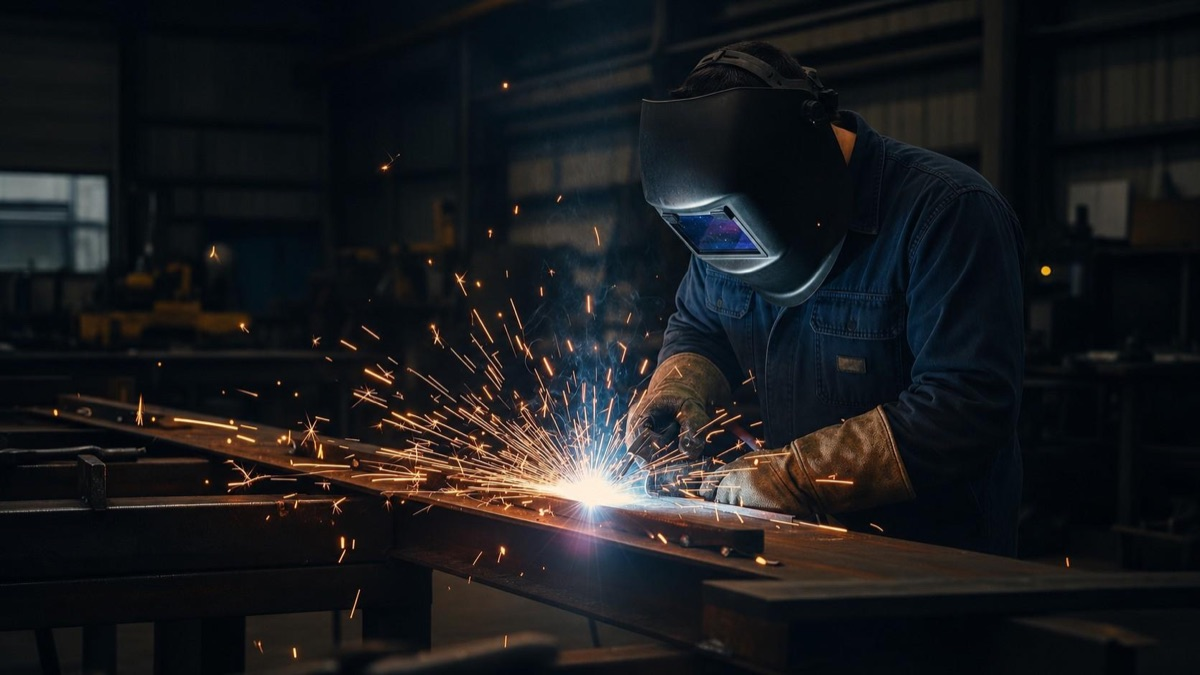
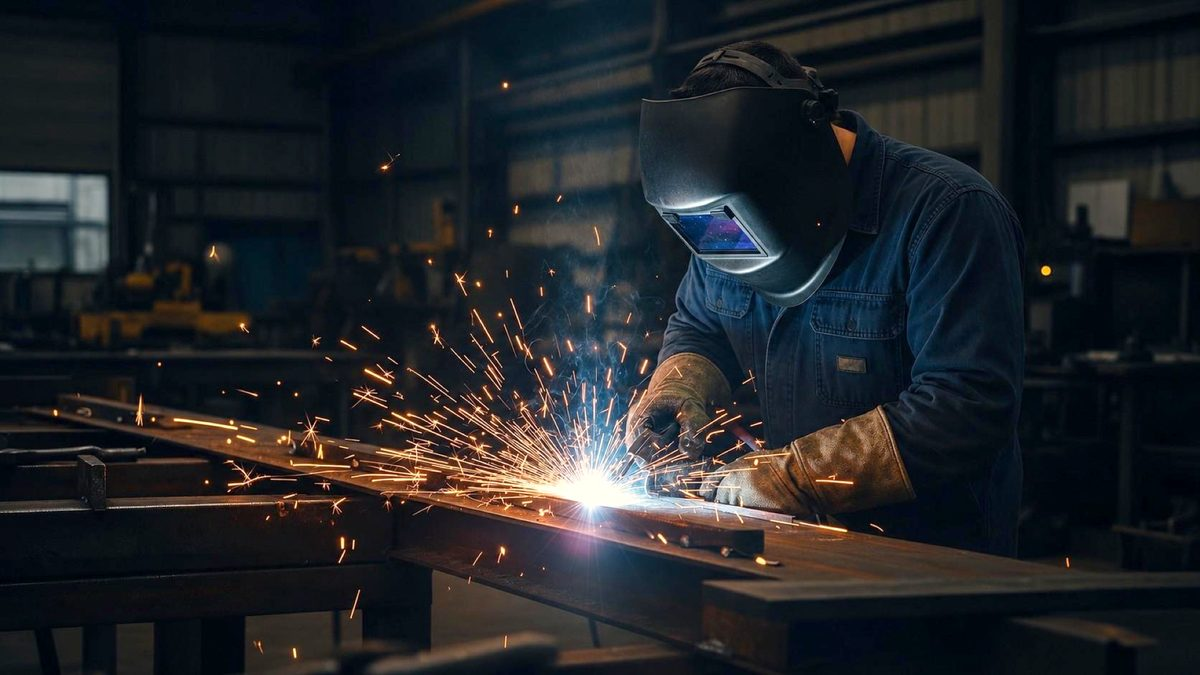
fix(brand): real MITT phone number, regraded hero still, image quality allowance
- site.phone: owner-supplied +91 74163 42020 (tel: link, placeholder:false)
- email remains a labelled placeholder; WhatsApp still null (unconfirmed)
- hero still regraded: gamma 0.82 + contrast 1.10 so the welder reads
- next.config images.qualities allows 86 instead of silent coercion to 75
- LAUNCH-CHECKLIST: B1 resolved; B4 warns against assuming WhatsApp

diff --git a/src/content/site.ts b/src/content/site.ts
@@ -22,14 +22,15 @@ export const site = {
   country: "India",
   /** Verified: Visakhapatnam, Andhra Pradesh. Street address is NOT verified — do not add one. */
   locationLine: "Visakhapatnam, Andhra Pradesh, India",
-  /** Placeholders. Non-routable by design so nothing can be sent to a wrong recipient. */
+  /** Owner-supplied 2026-10-30. `href` is empty for email until an inbox exists. */
   phone: {
-    display: "+91 XXXXX XXXXX",
-    href: "",
-    placeholder: true,
+    display: "+91 74163 42020",
+    href: "tel:+917416342020",
+    placeholder: false,
+    source: "Owner, 2026-10-30",
   },
   email: {
-    display: "enquiries@mitt.example",
+    display: "Enquiries email pending confirmation",
     href: "",
     placeholder: true,
   },

diff --git a/next.config.ts b/next.config.ts
@@ -6,6 +6,9 @@ const nextConfig: NextConfig = {
   images: {
     // Local-only assets under /public/media. No remote patterns are permitted.
     formats: ["image/avif", "image/webp"],
+    // Next 16 coerces next/image `quality` to the nearest allowed value;
+    // 86 is the grade used for the hero still.
+    qualities: [75, 86],
   },
 };
 

diff --git a/docs/LAUNCH-CHECKLIST.md b/docs/LAUNCH-CHECKLIST.md
@@ -19,10 +19,10 @@ Nothing on this list is optional. The site is **not launchable** until every ite
 
 | # | Item | Current state |
 |---|---|---|
-| B1 | Verified phone number | `+91 XXXXX XXXXX` — placeholder, deliberately non-routable |
-| B2 | Verified enquiries email (and whether it is monitored daily) | `enquiries@mitt.example` — placeholder |
+| B1 | Verified phone number | **RESOLVED 2026-10-30** — owner supplied `+91 74163 42020` (renders as `tel:+917416342020`). Recorded in `src/content/site.ts`. |
+| B2 | Verified enquiries email (and whether it is monitored daily) | **Outstanding** — renders as "Enquiries email pending confirmation". The enquiry form does not depend on it (submissions persist server-side), but a public inbox is expected on a B2B site. |
 | B3 | Full street address + Google Maps location, if it may be published | Only "Visakhapatnam, Andhra Pradesh, India" is published — no street line |
-| B4 | WhatsApp business number, if approved | Omitted entirely (no placeholder link is rendered) |
+| B4 | WhatsApp business number, if approved | Omitted entirely (no placeholder link is rendered). The new landline/mobile has **not** been confirmed as a WhatsApp Business line — do not add a `wa.me` link until MITT says so. |
 | B5 | Logo files (SVG + reversed) | Typographic wordmark used instead |
 | B6 | Domain name | Not yet known; `NEXT_PUBLIC_SITE_URL` must be set before SEO metadata is correct |
 
